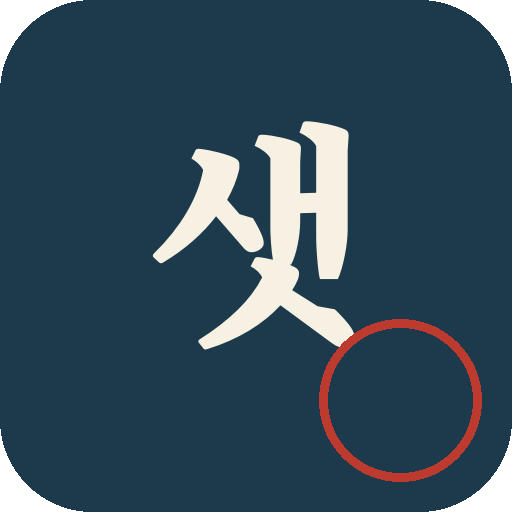
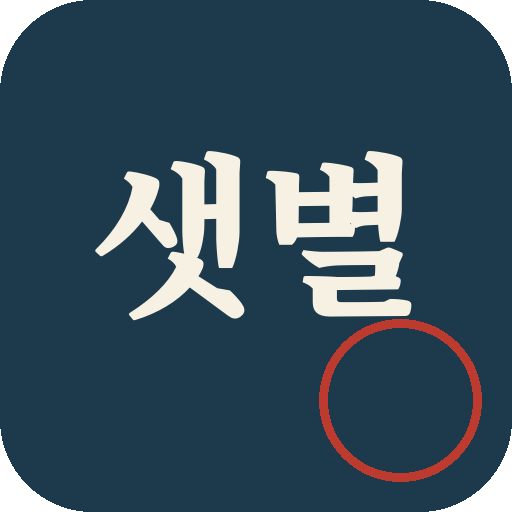
Add files via upload

Changed region(s): [[0.1875, 0.2188, 0.8125, 0.6875]]

diff --git a/index.html b/index.html
@@ -125,6 +125,9 @@
   .st-row.total{font-weight:900;font-size:15px;color:var(--stamp);border-top:1px dashed var(--rule);margin-top:4px;padding-top:8px;}
   .st-row.grand{font-weight:900;font-size:17px;color:var(--navy);border-top:2px solid var(--navy);margin-top:6px;padding-top:10px;}
   .st-bank{text-align:center;font-size:12.5px;font-weight:700;color:var(--navy);margin-top:16px;padding-top:12px;border-top:1.5px dashed var(--rule);}
+  .chart-wrap{margin:14px 0;padding-top:12px;border-top:1.5px dashed var(--rule);}
+  .chart-title{font-family:'Noto Serif KR',serif;font-weight:700;font-size:13px;color:var(--navy);margin-bottom:6px;}
+  .chart-wrap canvas{width:100%;height:auto;display:block;}
   .st-message{margin-top:14px;padding:12px 14px;background:var(--paper-deep);border-radius:9px;font-size:13px;color:var(--ink);line-height:1.6;white-space:pre-wrap;}
   .msg-input{width:100%;min-height:64px;font-size:14px;padding:11px;border:2px solid var(--rule);border-radius:9px;background:#fff;font-family:'Noto Sans KR',sans-serif;resize:vertical;margin-bottom:6px;color:var(--ink);}
   .st-foot{text-align:center;font-size:11px;color:#9a9180;margin-top:14px;}
@@ -292,7 +295,8 @@ let selectedStatementClientId = null;
 let statementPeriod = '1w'; // '1w','1m','3m','6m','1y','custom'
 let statementCustomStart = null;
 let statementCustomEnd = null;
-let statementView = 'client'; // 'client' | 'summary'
+let statementView = 'client'; // 'client' | 'summary' | 'chart'
+let chartClientId = null; // null = 전체 거래처 기준
 let editingTxId = null;
 let balanceMethod = {}; // clientId -> 'cash' | 'card' (미수금 탭에서 입금/정산 시 선택)
 let clientsTabSearch = '';
@@ -849,6 +853,93 @@ function txInRange(start, end, clientId){
 function paymentsInRange(start, end, clientId){
   return (state.payments||[]).filter(p=> p.date>=start && p.date<=end && (!clientId || p.clientId===clientId));
 }
+
+function buildSalesSeries(txs, start, end){
+  const startDate = new Date(start+'T00:00:00');
+  const endDate = new Date(end+'T00:00:00');
+  const totalDays = Math.max(1, Math.round((endDate-startDate)/86400000)+1);
+  let granularity = 'day';
+  if(totalDays>180) granularity = 'month';
+  else if(totalDays>31) granularity = 'week';
+
+  const sums = {};
+  txs.forEach(t=>{ sums[t.date] = (sums[t.date]||0) + t.total; });
+
+  const series = [];
+  if(granularity==='day'){
+    for(let i=0;i<totalDays;i++){
+      const d = new Date(startDate); d.setDate(d.getDate()+i);
+      const key = d.getFullYear()+'-'+String(d.getMonth()+1).padStart(2,'0')+'-'+String(d.getDate()).padStart(2,'0');
+      series.push({ label: `${d.getMonth()+1}/${d.getDate()}`, value: sums[key]||0 });
+    }
+  } else if(granularity==='week'){
+    let cur = new Date(startDate);
+    while(cur<=endDate){
+      const weekStart = new Date(cur);
+      let weekTotal = 0;
+      for(let j=0;j<7 && cur<=endDate;j++){
+        const key = cur.getFullYear()+'-'+String(cur.getMonth()+1).padStart(2,'0')+'-'+String(cur.getDate()).padStart(2,'0');
+        weekTotal += sums[key]||0;
+        cur.setDate(cur.getDate()+1);
+      }
+      series.push({ label: `${weekStart.getMonth()+1}/${weekStart.getDate()}`, value: weekTotal });
+    }
+  } else {
+    let cur = new Date(startDate.getFullYear(), startDate.getMonth(), 1);
+    while(cur<=endDate){
+      const y = cur.getFullYear(), m = cur.getMonth();
+      let monthTotal = 0;
+      Object.keys(sums).forEach(key=>{
+        const parts = key.split('-');
+        if(Number(parts[0])===y && Number(parts[1])===m+1) monthTotal += sums[key];
+      });
+      series.push({ label: `${m+1}월`, value: monthTotal });
+      cur = new Date(y, m+1, 1);
+    }
+  }
+  return series;
+}
+
+function drawBarChart(canvas, series){
+  if(!canvas) return;
+  const ctx = canvas.getContext('2d');
+  const W = canvas.width, H = canvas.height;
+  ctx.clearRect(0,0,W,H);
+  const max = Math.max(1, ...series.map(s=>s.value), 1);
+  const padding = { top:22, right:10, bottom:26, left:10 };
+  const chartW = W - padding.left - padding.right;
+  const chartH = H - padding.top - padding.bottom;
+  const n = Math.max(1, series.length);
+  const barGap = n>40 ? 1 : (n>20 ? 2 : 4);
+  const barW = Math.max(1, chartW/n - barGap);
+
+  ctx.strokeStyle = '#C9BCA0';
+  ctx.lineWidth = 1;
+  ctx.beginPath();
+  ctx.moveTo(padding.left, H-padding.bottom);
+  ctx.lineTo(W-padding.right, H-padding.bottom);
+  ctx.stroke();
+
+  const labelEvery = Math.max(1, Math.ceil(n/10));
+  series.forEach((s,i)=>{
+    const x = padding.left + i*(barW+barGap);
+    const barH = max>0 ? (s.value/max) * chartH : 0;
+    const y = H - padding.bottom - barH;
+    ctx.fillStyle = s.value<0 ? '#BD3A2E' : '#1C3A4B';
+    ctx.fillRect(x, y, barW, Math.max(1,barH));
+    if(i%labelEvery===0 || i===series.length-1){
+      ctx.fillStyle = '#9a9180';
+      ctx.font = '10px sans-serif';
+      ctx.textAlign = 'center';
+      ctx.fillText(s.label, x+barW/2, H-padding.bottom+13);
+    }
+  });
+  ctx.fillStyle = '#1C3A4B';
+  ctx.font = 'bold 11px sans-serif';
+  ctx.textAlign = 'left';
+  ctx.fillText(won(max)+' (최고)', padding.left, padding.top-7);
+}
+
 function shopHeaderHtml(){
   return `
         <div class="st-head">
@@ -891,7 +982,47 @@ function renderStatement(){
   html += `<div class="view-toggle no-print">
     <button class="${statementView==='client'?'active':''}" data-view="client">거래처별 명세서</button>
     <button class="${statementView==='summary'?'active':''}" data-view="summary">전체 요약</button>
+    <button class="${statementView==='chart'?'active':''}" data-view="chart">그래프만 보기</button>
   </div>`;
+
+  if(statementView==='chart'){
+    const activeClientIds = new Set(txInRange(rangeStart, rangeEnd).map(t=>t.clientId));
+    const visibleClients = state.clients.filter(c=>activeClientIds.has(c.id));
+
+    html += `<div class="section-title no-print">기준 선택</div>`;
+    html += `<div class="fav-grid no-print">`;
+    html += `<button class="fav-btn ${!chartClientId?'selected':''}" data-chartclient="">전체 거래처</button>`;
+    visibleClients.forEach(c=>{
+      html += `<button class="fav-btn ${c.id===chartClientId?'selected':''}" data-chartclient="${c.id}">${c.name}</button>`;
+    });
+    html += `</div>`;
+
+    const chartTxs = chartClientId ? txInRange(rangeStart, rangeEnd, chartClientId) : txInRange(rangeStart, rangeEnd);
+    const chartPeriodTotal = chartTxs.reduce((s,t)=>s+t.total,0);
+    const chartClient = chartClientId ? getClient(chartClientId) : null;
+
+    html += `
+    <div class="statement" id="statementPrintArea">
+      ${shopHeaderHtml()}
+      <div class="st-meta">
+        <div><b>기준</b> ${chartClient ? chartClient.name : '전체 거래처'}</div>
+        <div><b>기간</b> ${dateLabel(rangeStart)} ~ ${dateLabel(rangeEnd)}</div>
+      </div>
+      <div class="chart-wrap" style="border-top:none;margin-top:4px;">
+        <div class="chart-title">매출 추이</div>
+        <canvas id="salesChart" width="600" height="260"></canvas>
+      </div>
+      <div class="st-row grand" style="margin-top:10px;"><span>기간 합계</span><span>${won(chartPeriodTotal)}</span></div>
+      <div class="st-foot">좋은 수산물의 기준, 샛별수산</div>
+    </div>
+
+    <div class="no-print">
+      <button class="btn-main" id="printBtn">무선 프린터로 인쇄</button>
+      <button class="btn-main share-btn" id="shareBtn">사진으로 문자·이메일 보내기</button>
+      <button class="btn-ghost" id="downloadBtn">사진 파일로만 저장하기</button>
+    </div>`;
+    return html;
+  }
 
   if(statementView==='client'){
     const activeClientIds = new Set(txInRange(rangeStart, rangeEnd).map(t=>t.clientId));
@@ -950,6 +1081,10 @@ function renderStatement(){
             <div class="st-row total"><span>현재 총 잔액</span><span>${won(c.balance||0)}</span></div>
             <div class="st-row grand"><span>거래·잔액 총 합계</span><span>${won(grandTotal)}</span></div>
           </div>
+          <div class="chart-wrap">
+            <div class="chart-title">기간 매출 추이</div>
+            <canvas id="salesChart" width="600" height="190"></canvas>
+          </div>
           <div class="st-bank">계좌번호 : 우리은행 130-08-299596 김병국</div>
           ${selectedStatementClientId && state.clientMessages[selectedStatementClientId] ? `<div class="st-message">${state.clientMessages[selectedStatementClientId].replace(/\n/g,'<br>')}</div>` : ''}
           <div class="st-foot">좋은 수산물의 기준, 샛별수산</div>
@@ -998,6 +1133,10 @@ function renderStatement(){
         <div class="st-row sub" style="color:var(--green);"><span>· 입금/정산액 (현금 ${won(paymentsCash)} · 카드 ${won(paymentsCard)})</span><span>${won(paymentsTotal)}</span></div>
         <div class="st-row total"><span>전체 미수금 합계 (현재)</span><span>${won(totalBalance())}</span></div>
       </div>
+      <div class="chart-wrap">
+        <div class="chart-title">기간 매출 추이</div>
+        <canvas id="salesChart" width="600" height="190"></canvas>
+      </div>
       <div class="section-title" style="margin-top:14px;">거래처별 합계</div>
       <table class="st-table">
         <thead><tr><th>거래처</th><th class="num">거래 합계</th></tr></thead>
@@ -1023,7 +1162,7 @@ function attachHandlers(){
   fab.style.display = (activeTab==='clients' || activeTab==='prices') ? 'block' : 'none';
 
   document.querySelectorAll('nav.tabs button').forEach(b=>{
-    b.onclick = ()=>{ activeTab=b.dataset.tab; selectedClientId=null; cart=[]; cartPayMode='credit'; cartPayMethod='cash'; selectedStatementClientId=null; editingTxId=null; todayClientSearch=''; todayItemSearch=''; clientsTabSearch=''; balanceTabSearch=''; render(); };
+    b.onclick = ()=>{ activeTab=b.dataset.tab; selectedClientId=null; cart=[]; cartPayMode='credit'; cartPayMethod='cash'; selectedStatementClientId=null; chartClientId=null; editingTxId=null; todayClientSearch=''; todayItemSearch=''; clientsTabSearch=''; balanceTabSearch=''; render(); };
   });
   fab.onclick = ()=>{
     if(activeTab==='prices'){ state._showAddItem = true; render(); setTimeout(()=>document.getElementById('newItemName')?.focus(),50); }
@@ -1360,22 +1499,35 @@ function attachHandlers(){
           const [s,e] = periodToRange('1m');
           statementCustomStart = s; statementCustomEnd = e;
         }
-        selectedStatementClientId = null;
+        selectedStatementClientId = null; chartClientId = null;
         render();
       };
     });
     document.getElementById('customStartInput')?.addEventListener('change', (e)=>{
-      statementCustomStart = e.target.value; selectedStatementClientId = null; render();
+      statementCustomStart = e.target.value; selectedStatementClientId = null; chartClientId = null; render();
     });
     document.getElementById('customEndInput')?.addEventListener('change', (e)=>{
-      statementCustomEnd = e.target.value; selectedStatementClientId = null; render();
+      statementCustomEnd = e.target.value; selectedStatementClientId = null; chartClientId = null; render();
     });
     document.querySelectorAll('[data-view]').forEach(b=>{
-      b.onclick = ()=>{ statementView = b.dataset.view; selectedStatementClientId = null; render(); };
+      b.onclick = ()=>{ statementView = b.dataset.view; selectedStatementClientId = null; chartClientId = null; render(); };
     });
     document.querySelectorAll('[data-statclient]').forEach(b=>{
       b.onclick = ()=>{ selectedStatementClientId = b.dataset.statclient; render(); };
     });
+    document.querySelectorAll('[data-chartclient]').forEach(b=>{
+      b.onclick = ()=>{ chartClientId = b.dataset.chartclient || null; render(); };
+    });
+
+    const chartCanvas = document.getElementById('salesChart');
+    if(chartCanvas){
+      const [cs, ce] = periodToRange(statementPeriod);
+      let chartTxs;
+      if(statementView==='summary') chartTxs = txInRange(cs, ce);
+      else if(statementView==='chart') chartTxs = chartClientId ? txInRange(cs, ce, chartClientId) : txInRange(cs, ce);
+      else chartTxs = txInRange(cs, ce, selectedStatementClientId);
+      drawBarChart(chartCanvas, buildSalesSeries(chartTxs, cs, ce));
+    }
 
     document.getElementById('saveMsgBtn')?.addEventListener('click', async ()=>{
       const ta = document.getElementById('clientMsgInput');
@@ -1397,6 +1549,10 @@ function attachHandlers(){
 
     function statementLabel(){
       if(statementView==='summary') return '전체요약';
+      if(statementView==='chart'){
+        const cc = chartClientId ? getClient(chartClientId) : null;
+        return '그래프_' + (cc ? cc.name : '전체');
+      }
       const c = getClient(selectedStatementClientId);
       return c ? c.name : '거래처';
     }

diff --git a/service-worker.js b/service-worker.js
@@ -1,4 +1,4 @@
-const CACHE_NAME = 'saetbyeol-ledger-v9';
+const CACHE_NAME = 'saetbyeol-ledger-v12';
 const ASSETS = [
   './',
   './index.html',